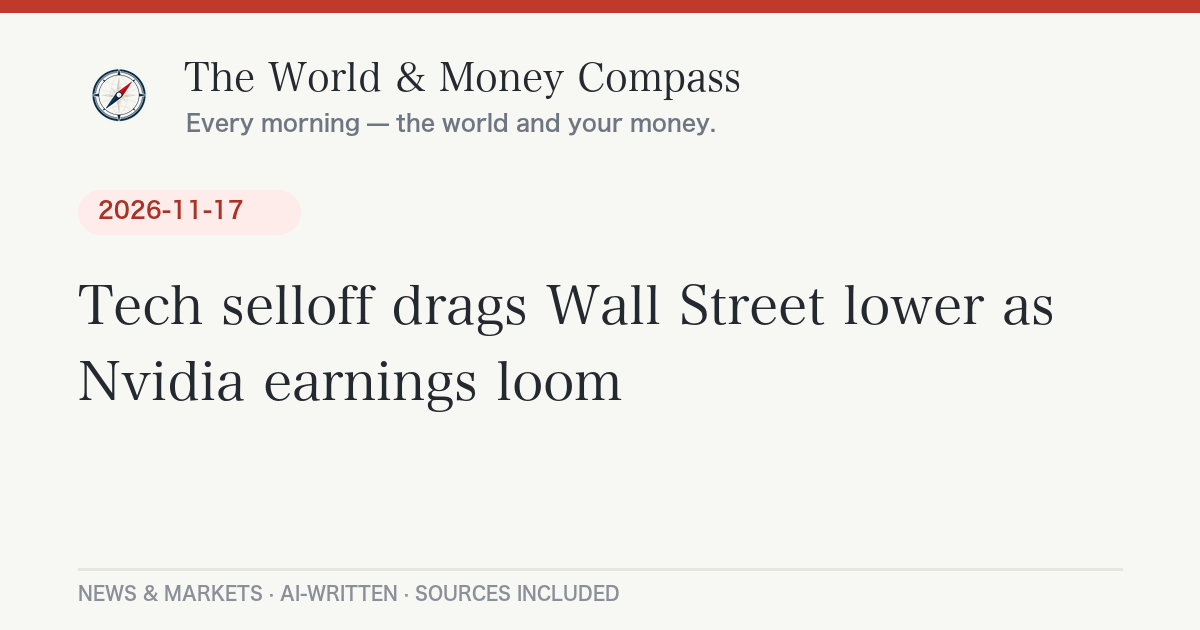
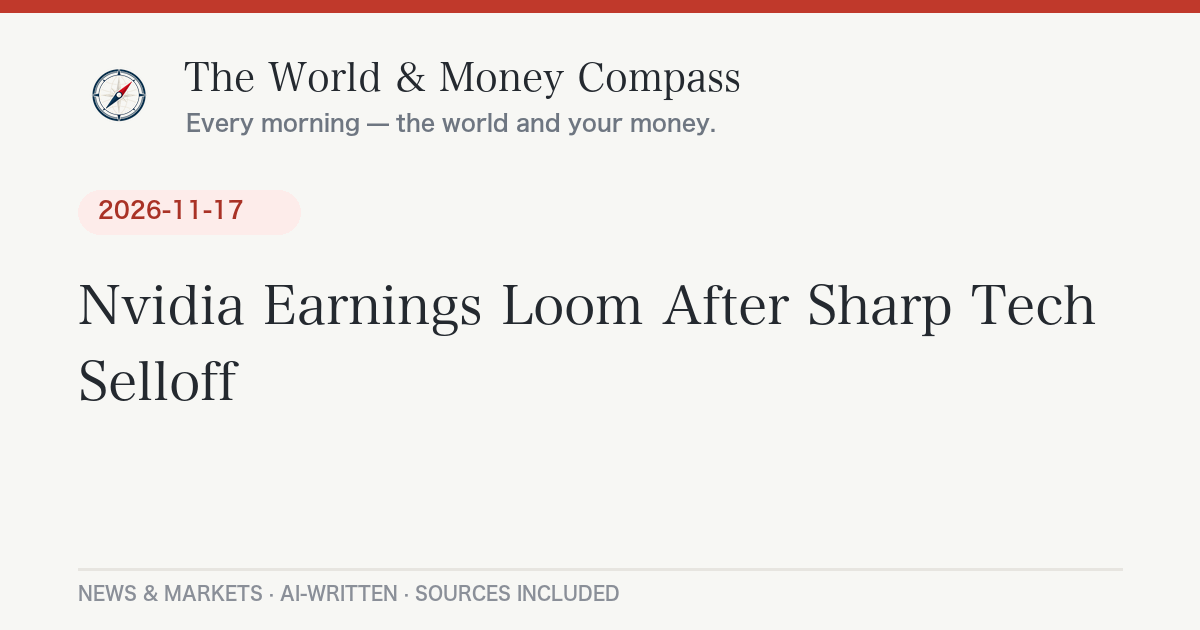
Daily briefing 2026-11-19

Changed region(s): [[0.0617, 0.4524, 0.925, 0.5429], [0.0617, 0.573, 0.5242, 0.6635]]

diff --git a/_posts/2026-11-19-daily-briefing.md b/_posts/2026-11-19-daily-briefing.md
@@ -1,0 +1,102 @@
+---
+layout: post
+lang: ja
+title: "ダウ561ドル安、FRB議事要旨が追加利上げを示唆しAI株は選別局面｜11月19日のニュースとお金"
+date: 2026-11-19 07:35:59 +0900
+categories: [ニュース, 経済]
+headline: "ダウ561ドル安、FRB議事要旨が追加利上げを示唆しAI株は選別局面"
+permalink: /2026/11/19/daily-briefing/
+---
+
+## 今日のポイント
+
+18日の米国株は、FRB（米連邦準備制度理事会）の議事要旨が「追加の利上げが適切」という空気をはっきり示したことで、ダウが大きく下げました。エヌビディアは決算が予想を上回ったのに株価は下落し、AI関連株は「好決算なら買い」とはいかない局面です。きょうは新規上場するアンソロピックにも注目が集まります。
+
+## 今日の羅針盤（Compass Insight）
+
+今日の流れを貫くキーワードは「AIへの期待と、金利という重し」です。FRBの議事要旨は、AI関連の需要そのものが「物価上昇リスクの大きな要因」になりうると指摘しました。AIブームは企業の稼ぎを押し上げる一方、設備投資や電力需要を通じて物価も押し上げる、という見立てです。そうなると利下げは遠のき、場合によっては利上げが続くことになります。
+
+家計への影響で言えば、米国の金利が高止まりすれば日米の金利差が意識され、円安が続きやすくなります。現在のドル円は1ドル=159円台（欧州中央銀行の基準レート）で、輸入品や光熱費の負担感が和らぎにくい状況です。一方、原油は今月に入り大きく下げており、ガソリン代にとっては追い風です。
+
+短期では、アンソロピックの上場初日の値動きと、12月のFRB会合に向けた物価指標に注目です。中長期では、AI投資の「回収」がいつ、どれだけ進むかが相場全体の方向を左右する可能性があります。日経平均は半導体株に引っ張られて上昇しましたが、東証株価指数（TOPIX）は下落しており、上昇が一部の銘柄に偏っている点には注意が必要です。
+
+## 今日のニュース
+
+### 日本
+
+- 18日の東京市場で日経平均株価は[0.28%高の5万9,024円28銭](https://finimize.com/content/nikkei-ends-higher-as-ai-stocks-rebound)で終了。半導体関連が相場を支えた一方、TOPIXは0.42%安で、値下がり銘柄が多数を占めました。
+- 楽天証券が顧客情報の漏えいの可能性を警告したと伝わり、楽天グループ株は[5.67%下落](https://finimize.com/content/nikkei-ends-higher-as-ai-stocks-rebound)しました。
+- 高市首相はAPEC首脳会議（中国・深圳）に出席しましたが、中国側の出迎えは[退役した元大使](https://www.thestandard.com.hk/china/article/348928/Japan-PM-Takaichi-gets-muted-reception-as-Beijing-sends-retired-envoy)で、控えめな扱いだったと報じられています。
+
+### 世界
+
+- ホルムズ海峡周辺で船舶への攻撃が続いています。アブダビのADNOC L&Sは、同海峡で攻撃を受けた船で[乗組員1人が行方不明、11人が負傷](https://rallies.ai/news/oil-prices-settle-lower-as-traders-weigh-surplus-supply-outlook-7830cf7961614d28)したと発表しました。
+- APEC首脳会議では、トランプ米大統領、習近平国家主席、プーチン大統領がそろって会合に臨んだと[欧州メディアが報じています](https://www.euronews.com/2026/11/18/europe-tonight-eu-proposes-45bn-ukraine-loan-as-trump-xi-and-putin-meet)。
+
+### アメリカ
+
+- FRBの議事要旨（10月会合）は、ほぼ全員が[追加利上げは「おそらく適切」](https://cnbc.com/2026/11/17/stock-market-today-live-updates.html)との見方で、12月会合でより大きな利上げが必要になる可能性に触れた参加者もいました。
+- エヌビディアは決算で売上・利益とも予想を上回り、通期の売上高見通しも引き上げましたが、株価は[2.9%下落](https://cnbc.com/2026/11/17/stock-market-today-live-updates.html)。フアン氏のCEO辞任後、初の決算でした。
+- アンソロピックは新規株式公開（IPO）の価格を[1株83ドル](https://techcrunch.com/2026/11/18/anthropic-reportedly-prices-ipo-at-83-a-share-above-projected-range/)に決め、想定レンジ（70〜78ドル）を上回りました。ナスダックに上場予定で、19日から取引が始まる見通しです（関係者情報ベース）。
+
+### ヨーロッパ
+
+- 欧州委員会のフォンデアライエン委員長が、2027年のウクライナ向けに[450億ユーロの新たな融資](https://www.euronews.com/2026/11/18/eurobonds-are-back-as-brussels-unveils-new-support-loan-for-ukraine)を提案しました。EUの共同債務で賄う案です。
+- 16日にはウクライナのドローンがクリミア橋（ケルチ橋）を攻撃し、クリミア自治共和国のアクショーノフ首長が[橋の通行を一時制限したと明らかにしました](https://www.irishtimes.com/world/europe/2026/11/16/ukraine-strikes-crimean-bridge-in-record-drone-attack/)。ロシア国防省は同じ夜に過去最多の1,336機のドローンを撃墜したと主張しています。
+
+## 経済とお金の動き
+
+### 世界の経済と原油・相場
+
+| 指標 | 水準 | 前日比 |
+|---|---|---|
+| 日経平均株価（18日終値） | 59,024.28円 | <span class="chg-up">+0.28%</span> |
+| ダウ平均（18日終値） | 50,198.17ドル | <span class="chg-down">-561.25ドル（-1.11%）</span> |
+| S&P500（18日終値） | 7,323.63 | <span class="chg-down">-0.23%</span> |
+| ナスダック総合（18日終値） | 24,429.88 | <span class="chg-up">+0.42%</span> |
+| WTI原油（18日清算値） | 83.26ドル/バレル | <span class="chg-down">-3.2%</span> |
+| ブレント原油（18日清算値） | 91.95ドル/バレル | <span class="chg-down">-1.28%</span> |
+| ドル円（[18日・ECB基準](https://api.frankfurter.app/latest?from=USD&to=JPY)） | 159.42円 | － |
+
+原油は米国の在庫が予想以上に増えたことで下げました。米エネルギー情報局関連の集計では、[原油在庫が340万バレル増](https://rallies.ai/news/oil-prices-settle-lower-as-traders-weigh-surplus-supply-outlook-7830cf7961614d28)（市場予想は5.8万バレル増）、ガソリン在庫も520万バレル増でした。ただしホルムズ海峡での攻撃が下げ幅を限定しています。
+
+### アメリカの経済
+
+S&P500は[5営業日連続の下落](https://cnbc.com/2026/11/17/stock-market-today-live-updates.html)で、6月以来で最も長い下げ局面です。FRBの議事要旨は物価圧力が「広範囲」に及んでいると認め、AI需要を物価リスクとして位置づけました。株式市場にとっては、金利と成長期待の綱引きが続きます。
+
+### 日本の経済
+
+日経平均は半導体関連（アドバンテスト+4.56%など）が押し上げた一方、TOPIXは下落、プライム市場では値上がりが約25%、値下がりが約71%でした（[Finimize](https://finimize.com/content/nikkei-ends-higher-as-ai-stocks-rebound)）。指数の上昇ほど、市場全体は強くない状態です。メガバンクの三菱UFJ、三井住友FGは1%超下落しました。
+
+## 今日の注目銘柄・セクター
+
+- **ユナイテッドヘルス（米）**：18日に約10%下落し、ダウを押し下げた主因の一つです（[CNBC](https://cnbc.com/2026/11/17/stock-market-today-live-updates.html)）。
+- **エネルギー株（エクソン・シェブロンなど）**：原油安を受けてS&P500のエネルギー部門が約3%下落。シェブロンとエクソンはそれぞれ3%超下げました。
+- **ターゲット（米）**：売上高が前年同期比7.1%増と、5年超ぶりの高い伸びで株価は約6%上昇しました。
+- **アドバンテスト（日）**：エヌビディアの時間外の上昇を受け、4.56%上昇して日経平均を最も押し上げました。
+
+*※特定銘柄の売買を推奨するものではありません。投資判断はご自身の責任で。*
+
+## まとめ：注目の3つ
+
+1. FRBは追加利上げを視野に。12月会合までの物価指標が焦点
+2. アンソロピックが19日に上場。AI関連株の資金の流れを占う試金石
+3. 日経平均は半導体頼みの上昇。TOPIXは下落で広がりに欠ける
+
+---
+<div class="post-sources" markdown="1">
+
+**出典：**
+- [CNBC: Dow drops more than 500 points; S&P 500 falls for fifth day as Nvidia sells off](https://cnbc.com/2026/11/17/stock-market-today-live-updates.html)
+- [The Standard: Wall Street ends mixed after Nvidia earnings, Fed minutes](https://www.thestandard.com.hk/finance/article/348945/Wall-Street-ends-mixed-after-Nvidia-earnings-Fed-minutes)
+- [Finimize: Nikkei Ends Higher As AI Stocks Rebound](https://finimize.com/content/nikkei-ends-higher-as-ai-stocks-rebound)
+- [Rallies.ai: Oil prices settle lower as traders weigh surplus supply outlook](https://rallies.ai/news/oil-prices-settle-lower-as-traders-weigh-surplus-supply-outlook-7830cf7961614d28)
+- [TechCrunch: Anthropic reportedly prices IPO at $83 a share](https://techcrunch.com/2026/11/18/anthropic-reportedly-prices-ipo-at-83-a-share-above-projected-range/)
+- [The Standard: Japan PM Takaichi gets muted reception as Beijing sends retired envoy](https://www.thestandard.com.hk/china/article/348928/Japan-PM-Takaichi-gets-muted-reception-as-Beijing-sends-retired-envoy)
+- [Euronews: Eurobonds are back as Brussels unveils new support loan for Ukraine](https://www.euronews.com/2026/11/18/eurobonds-are-back-as-brussels-unveils-new-support-loan-for-ukraine)
+- [Euronews: Europe Tonight（EUのウクライナ向け450億ユーロ融資案ほか）](https://www.euronews.com/2026/11/18/europe-tonight-eu-proposes-45bn-ukraine-loan-as-trump-xi-and-putin-meet)
+- 市場データ: [frankfurter API](https://api.frankfurter.app/) ／ 各種報道
+
+*本記事は公開情報をもとに作成しています。*
+
+</div>

diff --git a/_posts/2026-11-19-daily-briefing-en.md b/_posts/2026-11-19-daily-briefing-en.md
@@ -1,0 +1,48 @@
+---
+layout: post
+lang: en
+title: "Dow Falls 561 Points as Fed Minutes Signal More Rate Hikes — November 19, 2026"
+date: 2026-11-19 07:35:59 +0900
+headline: "Dow Falls 561 Points as Fed Minutes Signal More Rate Hikes"
+permalink: /2026/11/19/daily-briefing/
+---
+
+## Top U.S. Stories
+
+- **Fed minutes lean hawkish.** Minutes of the October meeting showed that [almost all participants judged further rate increases would likely be appropriate](https://cnbc.com/2026/11/17/stock-market-today-live-updates.html), and a couple raised the possibility of a larger move in December. *Why it matters:* Higher-for-longer rates weigh on richly valued tech stocks and keep mortgage and borrowing costs elevated.
+- **Dow drops 561 points.** The blue-chip index [fell 1.11% to 50,198.17](https://cnbc.com/2026/11/17/stock-market-today-live-updates.html), while the S&P 500 lost 0.23% to 7,323.63 (a fifth straight decline, its longest since June) and the Nasdaq gained 0.42% to 24,429.88.
+- **Nvidia beats, but shares slip.** Results and guidance topped estimates, yet the stock [fell 2.9%](https://cnbc.com/2026/11/17/stock-market-today-live-updates.html) in the first report since Jensen Huang resigned as CEO. *Why it matters:* A good quarter no longer guarantees a rally in AI names; investors are weighing capex, debt financing and leadership risk.
+- **Anthropic prices its IPO at $83.** The price [came in above the $70–$78 range](https://techcrunch.com/2026/11/18/anthropic-reportedly-prices-ipo-at-83-a-share-above-projected-range/), according to people familiar with the deal, with Nasdaq trading expected to begin Thursday.
+- **Retail and health care diverge.** Target rose about 6% after [net sales grew 7.1%](https://cnbc.com/2026/11/17/stock-market-today-live-updates.html), while UnitedHealth fell about 10%.
+
+## Compass Insight
+
+The day's story is AI optimism colliding with interest rates. The Fed minutes flagged AI-related demand as a material source of inflation risk, which means the same boom lifting earnings may also keep rates high. That helps explain why Nvidia sold off on good numbers and why the market's gains are narrowing to a handful of names. In the short run, watch Anthropic's first day of trading and the inflation data ahead of the December Fed meeting. Over the medium term, the key question is how quickly AI spending translates into profits, since that will shape whether today's volatility fades or grows.
+
+## Markets
+
+- Dow 50,198.17 (-1.11%), S&P 500 7,323.63 (-0.23%), Nasdaq 24,429.88 (+0.42%).
+- WTI crude settled at [$83.26 (-3.2%)](https://rallies.ai/news/oil-prices-settle-lower-as-traders-weigh-surplus-supply-outlook-7830cf7961614d28) and Brent at $91.95 (-1.28%) after a larger-than-expected U.S. crude inventory build, though attacks on shipping near the Strait of Hormuz limited the drop.
+- Japan's Nikkei 225 rose 0.28% to [59,024.28](https://finimize.com/content/nikkei-ends-higher-as-ai-stocks-rebound), while TOPIX fell 0.42%. USD/JPY was [159.42](https://api.frankfurter.app/latest?from=USD&to=JPY) (ECB reference rate, Nov. 18).
+
+## Stocks in Focus
+
+- **UnitedHealth** dropped about 10%, the biggest drag on the Dow.
+- **Energy majors** such as Chevron and Exxon fell more than 3% as oil slid.
+- **Target** gained about 6% on its strongest sales growth in over five years.
+
+*Not a recommendation to buy or sell any security.*
+
+<div class="post-sources" markdown="1">
+
+**Sources:**
+- [CNBC: Dow drops more than 500 points; S&P 500 falls for fifth day as Nvidia sells off](https://cnbc.com/2026/11/17/stock-market-today-live-updates.html)
+- [The Standard: Wall Street ends mixed after Nvidia earnings, Fed minutes](https://www.thestandard.com.hk/finance/article/348945/Wall-Street-ends-mixed-after-Nvidia-earnings-Fed-minutes)
+- [TechCrunch: Anthropic reportedly prices IPO at $83 a share](https://techcrunch.com/2026/11/18/anthropic-reportedly-prices-ipo-at-83-a-share-above-projected-range/)
+- [Rallies.ai: Oil prices settle lower as traders weigh surplus supply outlook](https://rallies.ai/news/oil-prices-settle-lower-as-traders-weigh-surplus-supply-outlook-7830cf7961614d28)
+- [Finimize: Nikkei Ends Higher As AI Stocks Rebound](https://finimize.com/content/nikkei-ends-higher-as-ai-stocks-rebound)
+- Market data: [frankfurter API](https://api.frankfurter.app/)
+
+</div>
+
+*Auto-generated and AI-written. Not investment advice.*
